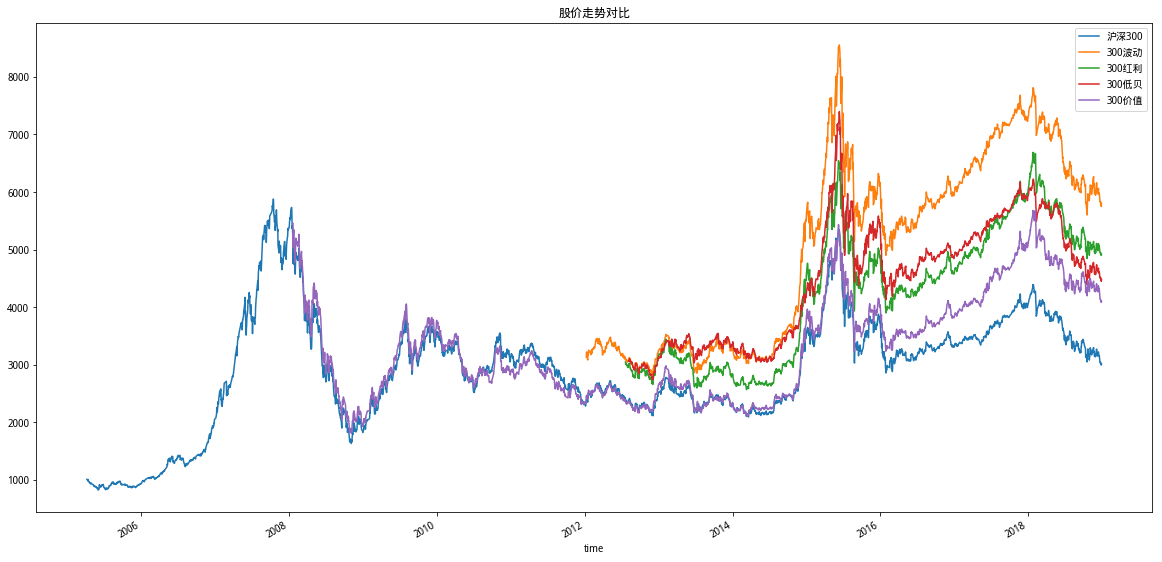
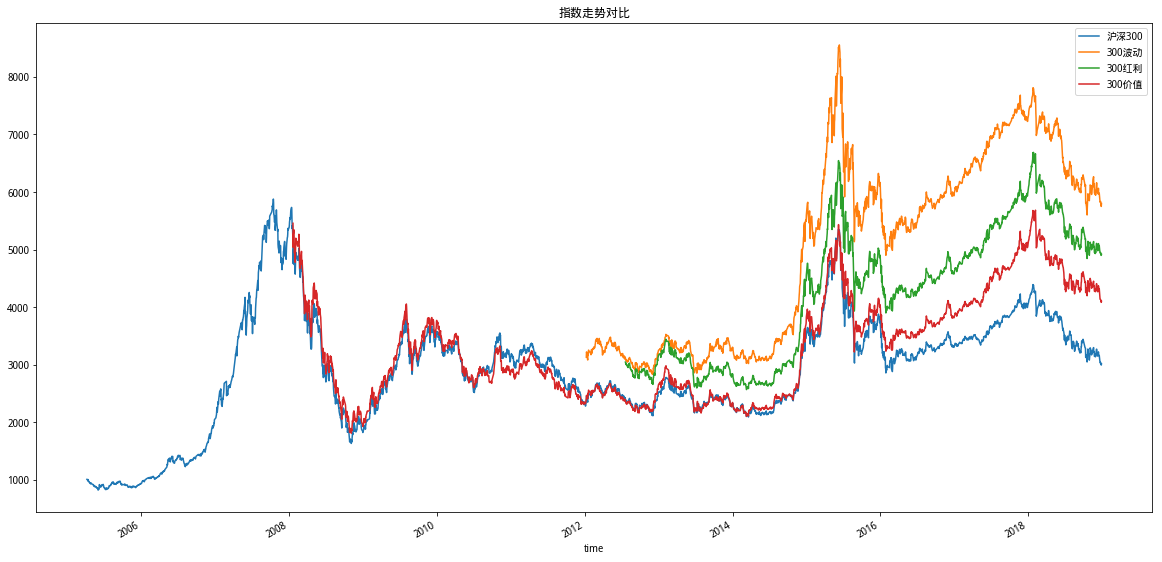
Append note in JQ week summary 11.

diff --git a/finance/聚宽/学习笔记/2003/200301-jq_11st_week_summary.md b/finance/聚宽/学习笔记/2003/200301-jq_11st_week_summary.md
@@ -7,6 +7,17 @@
 
 ### 1.查找资料学习有关归一化和对数化的概念。
 
+
+参考：
+
+https://en.wikipedia.org/wiki/Normalization
+https://en.wikipedia.org/wiki/Normalization_(statistics)
+
+- [CNN 入门讲解：什么是标准化(Normalization)？](https://zhuanlan.zhihu.com/p/35597976)
+- [ML 入门：归一化、标准化和正则化](https://www.davex.pw/2017/10/07/Normalization-and-Regularization/)
+
+
+
 ### 2.根据@Gyro的这篇文章写作一个简单的策略。
 
 ## 三、本周新学内容
@@ -49,7 +60,7 @@
 
 那么协方差又是什么？前面提到的标准差和方差衡量的是单个变量的波动情况，而协方差是用来衡量两个变量之间的相关性。和上面的方差一样，协方差计算出来的结果也是有单位，并且由于有两个变量，所以它带上了两个变量的单位，这就不利于进行相关性比较了。比如我们想比较班级里面学生的“年龄vs体重”和“身高vs体重”相关性的大小，COV(年龄，体重)结果的单位是岁·千克，COV(身高，体重)结果的单位是米·千克，不好比较。继而引入了“协方差系数”，公式为 COV(X,Y)/Sm(X)Sm(Y)，这样计算出来的结果是不带单位的，便于比较。
 
-而贝塔值的计算类似于协方差系数，但是分母里是Sm(Y)Sm(Y)，而不是Sm(X)Sm(Y)。这其中的原因我还没有弄明白，先这么理解吧。
+而贝塔值的计算类似于协方差系数，但是分母里是Sm(Y)Sm(Y)，即Y的方差，而不是Sm(X)Sm(Y)。这里的原因有两个：一、抵消协方差产生的单位；二、贝塔值的用意是与基准进行对比，方差本身代表了波动，所以用变量X与Y的相关性除上基准Y本身的波动得到的系数可以用来表征与基准之间的波动。不知道这种理解是否正确。（参考：[CNN 入门讲解：什么是标准化(Normalization)？](https://zhuanlan.zhihu.com/p/35597976)）
 
 那么“300高贝”和“300低贝”就分别表示沪深300指数样本股里面按照贝塔值排序的最高100名和最低100名的股票，详细定义可以见[中证高、低贝塔指数系列编制方案](http://www.csindex.com.cn/uploads/indices/detail/files/zh_CN/172_000828_Index_Methodology_cn.pdf?t=1583841038)。我这里把沪深300指数以及300高贝、300低贝的走势画了出来，看得出来低贝太菜啦。
 
@@ -57,7 +68,9 @@
 
 **3.波动率因子和质量因子**
 
-这两个因子在[沪深300动态指数和稳定指数编制方案](http://www.csindex.com.cn/uploads/indices/detail/files/zh_CN/187_000843_Index_Methodology_cn.pdf?t=1583842872)里出现，分别有如下的定义：
+[沪深300动态指数和稳定指数编制方案](http://www.csindex.com.cn/uploads/indices/detail/files/zh_CN/187_000843_Index_Methodology_cn.pdf?t=1583842872)有关300动态和300稳定指数的定义为：沪深300动态和稳定指数分别以各自母指数为样本空间，根据波动率因子和质量因子计算敏感性评分，选取对宏观环境和经济周期变动具有较高风险敞口的股票构成动态指数，选取具有较低风险敞口的股票构成稳定指数。
+
+波动率因子和质量因子就是编制这两个指数的主要参考因子，它们分别有如下的定义：
 
 - 波动率因子：根据52周波动率和36月波动率进行计算。
 - 质量因子：根据债务权益比、总资产/净利润、盈利可变性和现金流可变性进行计算。
@@ -84,6 +97,10 @@
 最后搞个大综合：
 
 ![](./zz_300_index_all.png)
+
+上周刚学了对数化，这里也尝试对它们进行对数化看看效果。
+
+![](./zz_300_index_all_log.png)
 
 ### 2.
 
